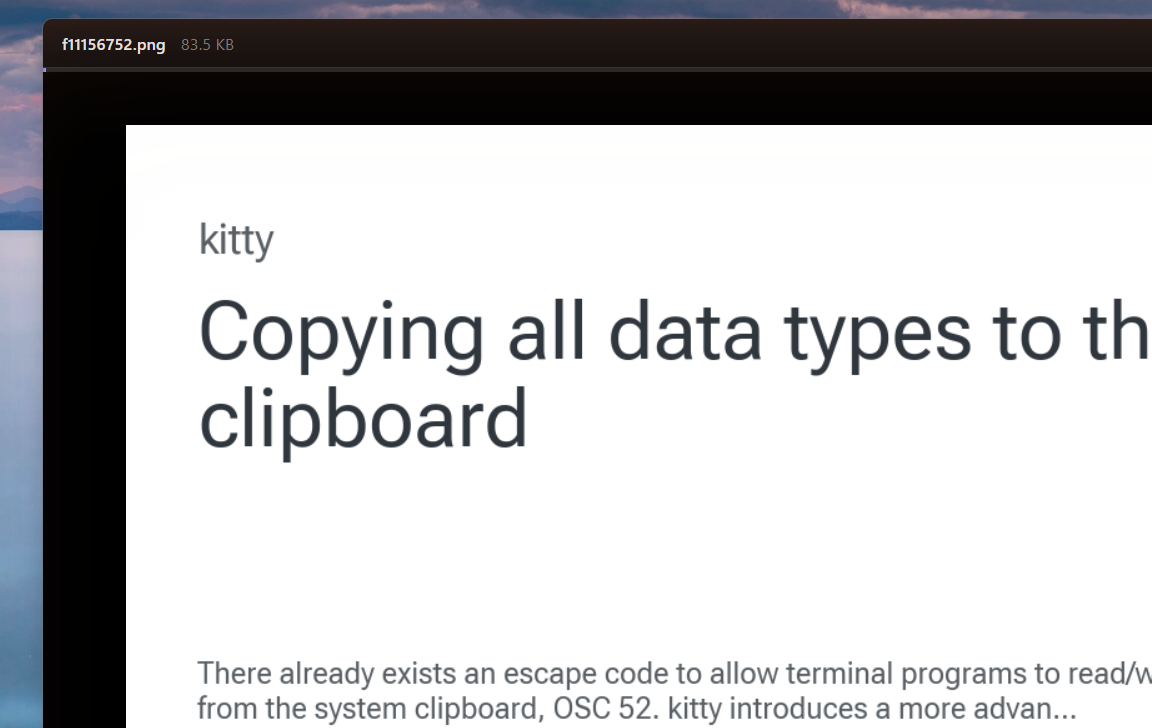
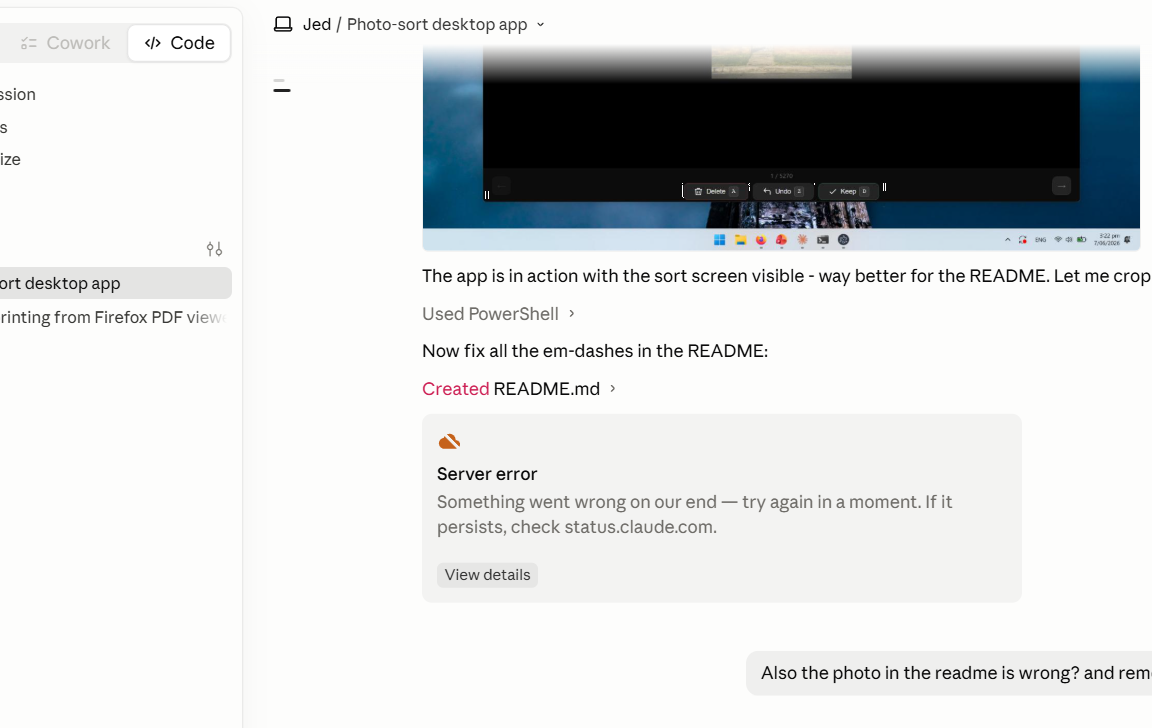
Fix screenshot, remove em-dashes, add hold-to-rapid-fire note

diff --git a/README.md b/README.md
@@ -1,20 +1,20 @@
 # PhotoSort
 
-> Keyboard-driven photo triage — blaze through thousands of photos and generate a clean delete script.
+> Keyboard-driven photo triage - blaze through thousands of photos and generate a clean delete script.
 
-![PhotoSort start screen](assets/screenshot-start.png)
+![PhotoSort in action](assets/screenshot-start.png)
 
 ## Why
 
-When you have 10,000 photos and just want to kill the blurry ones fast, clicking through a GUI is painful. PhotoSort keeps your hands on the keyboard — one key per decision, zero friction.
+When you have 10,000 photos and just want to kill the blurry ones fast, clicking through a GUI is painful. PhotoSort keeps your hands on the keyboard - one key per decision, zero friction.
 
 ## How it works
 
 1. Open a folder of photos
-2. `A` to mark for deletion, `D` to keep — each advances to the next photo
+2. `A` to mark for deletion, `D` to keep - each advances to the next photo
 3. `Z` to undo if you fat-finger it
 4. At the end, review the stats and get a `bash` script of `rm` commands
-5. **Nothing is deleted until you run the script yourself** — you stay in control
+5. **Nothing is deleted until you run the script yourself** - you stay in control
 
 ## Controls
 
@@ -24,6 +24,8 @@ When you have 10,000 photos and just want to kill the blurry ones fast, clicking
 | `D` or `→` | Keep & advance |
 | `Z` | Undo last decision |
 
+Hold `A` or `D` to rapid-fire through photos.
+
 ## Features
 
 - Fullscreen, distraction-free view
@@ -31,7 +33,7 @@ When you have 10,000 photos and just want to kill the blurry ones fast, clicking
 - Red "MARKED FOR DELETION" badge on flagged photos
 - Filename and file size in the title bar
 - Preloads the next 3 images for instant navigation
-- Generates a reviewable `bash` `rm` script — no silent deletes
+- Generates a reviewable `bash` `rm` script - no silent deletes
 - Copy script to clipboard or save to file
 - Remembers window size between sessions
 
@@ -52,4 +54,4 @@ Requires [Node.js](https://nodejs.org) (LTS).
 
 ## Tech
 
-Built with [Electron](https://www.electronjs.org/). No framework, no bundler — plain HTML/CSS/JS in the renderer.
+Built with [Electron](https://www.electronjs.org/). No framework, no bundler - plain HTML/CSS/JS in the renderer.